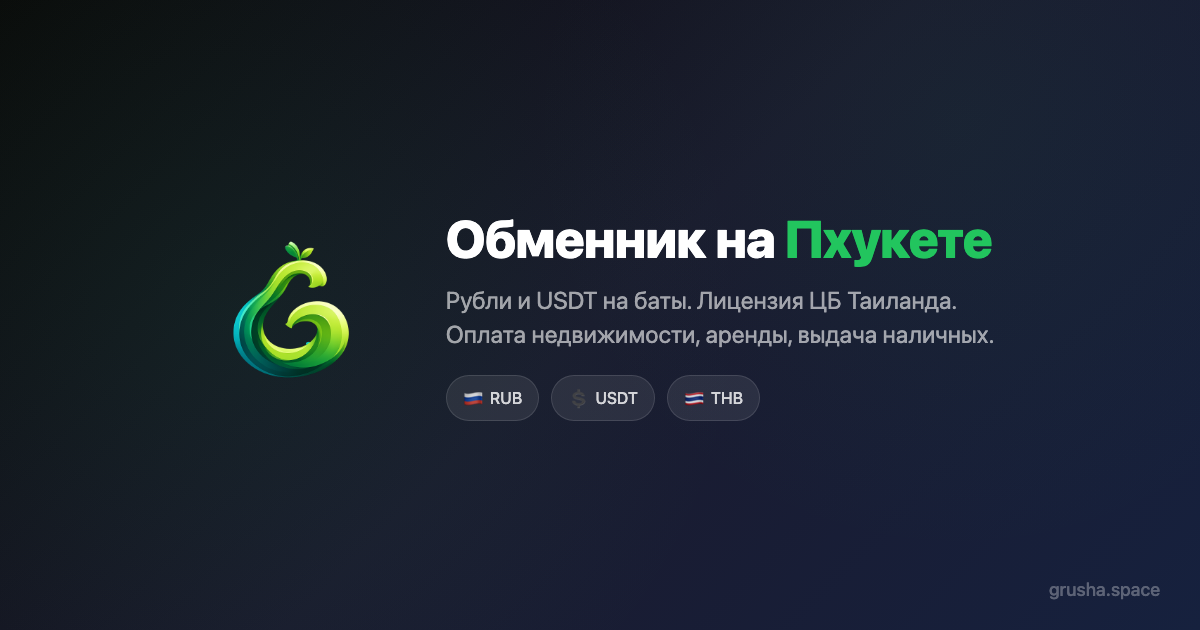
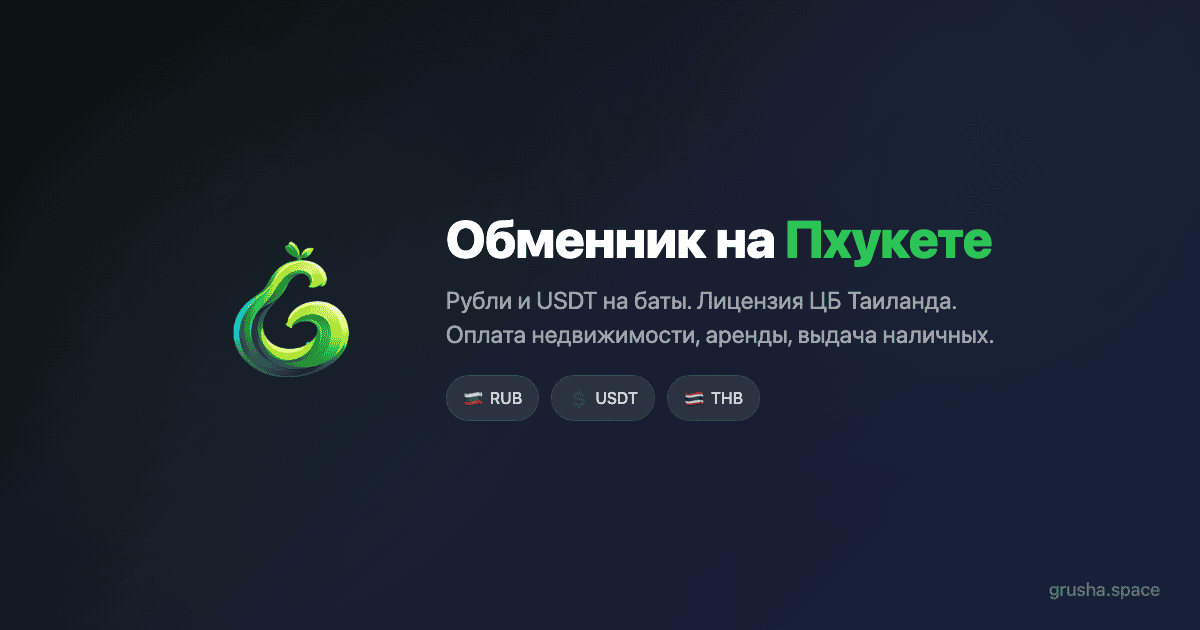
perf+seo: image compression, srcset, Lucide ESM, USDT landing page
Images:
- Compressed 5 WebP images (680KB → 517KB, q65)
- og-image.png 417KB → 58KB (pngquant)
- Generated 400w srcset variants for mobile (25-65KB each)
- Added srcset + sizes to all 5 content images

Performance:
- Replaced Lucide UMD bundle (180KB) with ESM tree-shaken import (29 icons only)

SEO:
- Created /usdt-to-thb.html — dedicated landing for "обмен USDT на баты пхукет"
- Updated sitemap.xml — 2 URLs (was 1), removed deprecated changefreq/priority

Changed region(s): [[0.185, 0.3921, 0.3083, 0.6032]]

diff --git a/usdt-to-thb.html b/usdt-to-thb.html
@@ -1,0 +1,234 @@
+<!DOCTYPE html>
+<html lang="ru">
+<head>
+    <meta charset="UTF-8">
+    <meta name="viewport" content="width=device-width, initial-scale=1.0">
+    <meta name="description" content="Обмен USDT на баты на Пхукете через Grusha. Криптообменник с лицензией ЦБ Таиланда MC225660186. Получите баты за 15 минут: банкомат по QR, курьер, офис.">
+    <meta name="robots" content="index, follow">
+    <link rel="canonical" href="https://grusha.space/usdt-to-thb.html">
+
+    <meta property="og:type" content="website">
+    <meta property="og:url" content="https://grusha.space/usdt-to-thb.html">
+    <meta property="og:title" content="Обмен USDT на баты на Пхукете — Grusha">
+    <meta property="og:description" content="Криптообменник на Пхукете с лицензией. USDT → THB за 15 минут. Банкомат, курьер, офис.">
+    <meta property="og:image" content="https://grusha.space/assets/images/og-image.png">
+    <meta property="og:locale" content="ru_RU">
+
+    <script type="application/ld+json">
+    {
+      "@context": "https://schema.org",
+      "@type": "Service",
+      "name": "Обмен USDT на баты на Пхукете",
+      "description": "Обмен криптовалюты USDT (Tether) на тайские баты на Пхукете. Получение наличных через банкомат по QR-коду, курьером или в офисе. Лицензия ЦБ Таиланда MC225660186.",
+      "provider": {
+        "@type": "LocalBusiness",
+        "@id": "https://grusha.space/#business"
+      },
+      "areaServed": {
+        "@type": "AdministrativeArea",
+        "name": "Phuket, Thailand"
+      },
+      "serviceType": "Currency Exchange",
+      "offers": {
+        "@type": "Offer",
+        "priceCurrency": "USDT",
+        "description": "Минимум 500 USDT, индивидуальный курс для сумм свыше 10 000 USDT"
+      }
+    }
+    </script>
+
+    <title>Обмен USDT на баты на Пхукете — Grusha | Криптообменник с лицензией</title>
+    <link rel="icon" href="assets/images/grushalogo.webp" type="image/webp">
+    <link rel="stylesheet" href="assets/css/styles.min.css">
+    <link rel="preconnect" href="https://fonts.googleapis.com">
+    <link rel="preconnect" href="https://fonts.gstatic.com" crossorigin>
+    <link href="https://fonts.googleapis.com/css2?family=Plus+Jakarta+Sans:wght@400;700;800&display=swap" rel="stylesheet" media="print" onload="this.media='all'">
+    <style>
+        html, body { overflow-x: hidden; }
+        body { font-family: 'Plus Jakarta Sans', sans-serif; background-color: #F8FAF9; }
+        .glass { background: rgba(255, 255, 255, 0.8); backdrop-filter: blur(10px); }
+    </style>
+</head>
+<body>
+
+    <!-- Header -->
+    <header class="py-4 px-6 glass border-b border-gray-200 sticky top-0 z-50">
+        <div class="max-w-5xl mx-auto flex justify-between items-center">
+            <a href="/" class="flex items-center space-x-3">
+                <img src="assets/images/grushalogo.webp" alt="Grusha" width="40" height="40" class="h-10 w-auto">
+                <span class="text-xl font-extrabold tracking-tight">Grusha</span>
+            </a>
+            <a href="/" class="text-sm font-bold text-gray-500 hover:text-black transition">← На главную</a>
+        </div>
+    </header>
+
+    <main class="max-w-3xl mx-auto px-6 py-16 md:py-24">
+
+        <!-- Breadcrumb -->
+        <nav class="text-sm text-gray-400 mb-8">
+            <a href="/" class="hover:text-gray-700 transition">Главная</a>
+            <span class="mx-2">→</span>
+            <span class="text-gray-700 font-medium">Обмен USDT на баты</span>
+        </nav>
+
+        <h1 class="text-3xl md:text-5xl font-extrabold text-gray-900 leading-tight mb-6 tracking-tight">
+            Обмен USDT на&nbsp;баты на&nbsp;Пхукете
+        </h1>
+
+        <p class="text-lg md:text-xl text-gray-600 leading-relaxed mb-10">
+            Обменяйте USDT (Tether) на&nbsp;тайские баты через лицензированный криптообменник на&nbsp;Пхукете. Получите наличные за&nbsp;15&nbsp;минут — через банкомат по&nbsp;QR-коду, курьером или в&nbsp;нашем офисе.
+        </p>
+
+        <!-- CTA -->
+        <div class="flex flex-col sm:flex-row gap-4 mb-16">
+            <a href="https://t.me/exgreen_pro_bot" target="_blank" rel="noopener" class="bg-[#3B82F6] text-white px-8 py-4 rounded-full font-bold text-lg text-center shadow-xl hover:brightness-110 transition">
+                Обменять в Telegram
+            </a>
+            <a href="https://wa.me/66818429939" target="_blank" rel="noopener" class="border-2 border-[#4ADE80] text-[#16A34A] px-8 py-4 rounded-full font-bold text-lg text-center hover:bg-[#4ADE80]/5 transition">
+                в WhatsApp
+            </a>
+        </div>
+
+        <!-- How it works -->
+        <section class="mb-16">
+            <h2 class="text-2xl md:text-3xl font-extrabold text-gray-900 mb-8">Как обменять USDT на баты через Grusha</h2>
+
+            <div class="space-y-6">
+                <div class="bg-white rounded-2xl p-6 border border-gray-100">
+                    <div class="flex items-start gap-4">
+                        <span class="w-10 h-10 bg-[#D9F99D] rounded-full flex items-center justify-center font-black text-lg shrink-0">1</span>
+                        <div>
+                            <h3 class="font-bold text-gray-900 text-lg mb-2">Напишите в Telegram или WhatsApp</h3>
+                            <p class="text-gray-600">Укажите сумму USDT и как хотите получить баты. Менеджер зафиксирует курс обмена USDT к бату на момент сделки.</p>
+                        </div>
+                    </div>
+                </div>
+                <div class="bg-white rounded-2xl p-6 border border-gray-100">
+                    <div class="flex items-start gap-4">
+                        <span class="w-10 h-10 bg-[#D9F99D] rounded-full flex items-center justify-center font-black text-lg shrink-0">2</span>
+                        <div>
+                            <h3 class="font-bold text-gray-900 text-lg mb-2">Отправьте USDT на наш кошелёк</h3>
+                            <p class="text-gray-600">Принимаем USDT по сети TRC-20 (комиссия сети ~1 USDT). После подтверждения транзакции в блокчейне приступаем к выдаче.</p>
+                        </div>
+                    </div>
+                </div>
+                <div class="bg-white rounded-2xl p-6 border border-gray-100">
+                    <div class="flex items-start gap-4">
+                        <span class="w-10 h-10 bg-[#D9F99D] rounded-full flex items-center justify-center font-black text-lg shrink-0">3</span>
+                        <div>
+                            <h3 class="font-bold text-gray-900 text-lg mb-2">Получите баты</h3>
+                            <p class="text-gray-600">Выберите удобный способ: наличные через банкомат по QR-коду (без карты), доставка курьером на Пхукете, получение в офисе (Choeng Thale) или перевод на тайский банковский счёт.</p>
+                        </div>
+                    </div>
+                </div>
+            </div>
+        </section>
+
+        <!-- Delivery methods -->
+        <section class="mb-16">
+            <h2 class="text-2xl md:text-3xl font-extrabold text-gray-900 mb-8">Способы получения батов</h2>
+            <div class="grid grid-cols-1 md:grid-cols-2 gap-4">
+                <div class="bg-white rounded-2xl p-6 border border-gray-100">
+                    <h3 class="font-bold text-gray-900 mb-2">Банкомат по QR-коду</h3>
+                    <p class="text-gray-600 text-sm">Отправим QR-код в мессенджер. Покажите на экране банкомата — заберите баты без карты, за 5 минут.</p>
+                </div>
+                <div class="bg-white rounded-2xl p-6 border border-gray-100">
+                    <h3 class="font-bold text-gray-900 mb-2">Курьер по Пхукету</h3>
+                    <p class="text-gray-600 text-sm">Доставим наличные баты прямо к вашей вилле или отелю. 15-40 минут.</p>
+                </div>
+                <div class="bg-white rounded-2xl p-6 border border-gray-100">
+                    <h3 class="font-bold text-gray-900 mb-2">Офис Grusha</h3>
+                    <p class="text-gray-600 text-sm">48/207 Choeng Thale, Thalang, Phuket 83110. Ежедневно с 09:00 до 21:00.</p>
+                </div>
+                <div class="bg-white rounded-2xl p-6 border border-gray-100">
+                    <h3 class="font-bold text-gray-900 mb-2">На тайский счёт</h3>
+                    <p class="text-gray-600 text-sm">Перевод на счёт в Bangkok Bank, Kasikorn, SCB и любой другой банк Таиланда.</p>
+                </div>
+            </div>
+        </section>
+
+        <!-- Why Grusha -->
+        <section class="mb-16">
+            <h2 class="text-2xl md:text-3xl font-extrabold text-gray-900 mb-8">Почему менять USDT на баты через Grusha</h2>
+            <div class="space-y-4">
+                <div class="bg-white rounded-2xl p-6 border border-gray-100">
+                    <h3 class="font-bold text-gray-900 mb-2">Лицензия ЦБ Таиланда</h3>
+                    <p class="text-gray-600 text-sm">Работаем через тайскую компанию (Co., Ltd) с лицензией MC225660186. <a href="http://app.bot.or.th/BOTLicenseCheck/License/ViewDetail?id=2044" target="_blank" rel="noopener" class="underline font-bold hover:text-[#16A34A]">Проверить на сайте Bank of Thailand</a>.</p>
+                </div>
+                <div class="bg-white rounded-2xl p-6 border border-gray-100">
+                    <h3 class="font-bold text-gray-900 mb-2">Индивидуальный курс USDT→THB</h3>
+                    <p class="text-gray-600 text-sm">Курс привязан к рыночному Binance. Для сумм свыше 5 000 USDT — улучшенный курс, свыше 10 000 — максимальная скидка.</p>
+                </div>
+                <div class="bg-white rounded-2xl p-6 border border-gray-100">
+                    <h3 class="font-bold text-gray-900 mb-2">Быстро и без регистрации</h3>
+                    <p class="text-gray-600 text-sm">Не нужна верификация, KYC или регистрация на бирже. Вы пишете в Telegram — и через 15 минут получаете баты.</p>
+                </div>
+            </div>
+        </section>
+
+        <!-- FAQ -->
+        <section class="mb-16">
+            <h2 class="text-2xl md:text-3xl font-extrabold text-gray-900 mb-8">Вопросы про обмен USDT на Пхукете</h2>
+            <div class="space-y-4">
+                <details class="bg-white rounded-2xl p-6 border border-gray-100 group" open>
+                    <summary class="flex justify-between items-center cursor-pointer list-none font-bold text-gray-900">
+                        Какой минимальный объём обмена USDT?
+                    </summary>
+                    <p class="mt-3 text-gray-600 text-sm leading-relaxed">Минимальная сумма — 500 USDT. Максимальная не ограничена. Для крупных сумм (от 10 000 USDT) согласовываем индивидуальный курс.</p>
+                </details>
+                <details class="bg-white rounded-2xl p-6 border border-gray-100 group">
+                    <summary class="flex justify-between items-center cursor-pointer list-none font-bold text-gray-900">
+                        По какой сети принимаете USDT?
+                    </summary>
+                    <p class="mt-3 text-gray-600 text-sm leading-relaxed">Основная сеть — TRC-20 (Tron). Комиссия сети ~1 USDT. Также принимаем по ERC-20 (Ethereum), но комиссия сети будет выше.</p>
+                </details>
+                <details class="bg-white rounded-2xl p-6 border border-gray-100 group">
+                    <summary class="flex justify-between items-center cursor-pointer list-none font-bold text-gray-900">
+                        Как формируется курс USDT к бату?
+                    </summary>
+                    <p class="mt-3 text-gray-600 text-sm leading-relaxed">Курс привязан к рыночному курсу USDT/THB на Binance. Наша комиссия зависит от суммы: до 5 000 USDT — 3%, до 10 000 — 2.5%, свыше 10 000 — 2%. Курс фиксируется на момент подтверждения сделки.</p>
+                </details>
+                <details class="bg-white rounded-2xl p-6 border border-gray-100 group">
+                    <summary class="flex justify-between items-center cursor-pointer list-none font-bold text-gray-900">
+                        Безопасно ли отправлять USDT обменнику?
+                    </summary>
+                    <p class="mt-3 text-gray-600 text-sm leading-relaxed">Да. Grusha — лицензированная компания с офисом на Пхукете. Лицензию MC225660186 можно проверить на сайте Bank of Thailand. Мы работаем с 2024 года и сопровождаем каждую сделку до зачисления.</p>
+                </details>
+                <details class="bg-white rounded-2xl p-6 border border-gray-100 group">
+                    <summary class="flex justify-between items-center cursor-pointer list-none font-bold text-gray-900">
+                        Можно ли обменять USDT на баты удалённо?
+                    </summary>
+                    <p class="mt-3 text-gray-600 text-sm leading-relaxed">Да. Вы отправляете USDT из любой точки мира, а баты получаете на Пхукете — через банкомат, курьера или на тайский счёт. Приезжать в офис не обязательно.</p>
+                </details>
+            </div>
+        </section>
+
+        <!-- Bottom CTA -->
+        <section class="bg-[#D9F99D] rounded-3xl p-8 md:p-12 text-center">
+            <h2 class="text-2xl md:text-3xl font-extrabold text-gray-900 mb-4">Готовы обменять USDT на баты?</h2>
+            <p class="text-gray-700 mb-8">Напишите в мессенджер — зафиксируем курс и проведём сделку за 15 минут.</p>
+            <div class="flex flex-col sm:flex-row justify-center gap-4">
+                <a href="https://t.me/exgreen_pro_bot" target="_blank" rel="noopener" class="bg-[#111513] text-white px-10 py-4 rounded-full font-bold text-lg shadow-xl hover:scale-105 transition">
+                    Telegram
+                </a>
+                <a href="https://wa.me/66818429939" target="_blank" rel="noopener" class="bg-white text-[#111513] px-10 py-4 rounded-full font-bold text-lg shadow-xl hover:scale-105 transition">
+                    WhatsApp
+                </a>
+            </div>
+        </section>
+    </main>
+
+    <footer class="border-t border-gray-200 py-12 px-6 text-center">
+        <a href="/" class="inline-flex items-center space-x-3 mb-4">
+            <img src="assets/images/grushalogo.webp" alt="Grusha" width="32" height="32" class="h-8 w-auto">
+            <span class="text-lg font-extrabold">Grusha</span>
+        </a>
+        <p class="text-gray-400 font-bold text-sm">© 2026 Grusha. Все права защищены. +66 81 842 9939</p>
+        <div class="flex justify-center gap-6 mt-2">
+            <a href="/privacy.html" class="text-gray-500 text-sm hover:text-gray-300 transition">Политика конфиденциальности</a>
+            <a href="/terms.html" class="text-gray-500 text-sm hover:text-gray-300 transition">Условия использования</a>
+        </div>
+    </footer>
+
+</body>
+</html>

diff --git a/index.html b/index.html
@@ -254,7 +254,11 @@
     <link rel="preconnect" href="https://fonts.gstatic.com" crossorigin>
     <link href="https://fonts.googleapis.com/css2?family=Plus+Jakarta+Sans:wght@400;500;600;700;800&display=swap" rel="stylesheet" media="print" onload="this.media='all'">
     <noscript><link href="https://fonts.googleapis.com/css2?family=Plus+Jakarta+Sans:wght@400;500;600;700;800&display=swap" rel="stylesheet"></noscript>
-    <script src="https://unpkg.com/lucide@0.577.0/dist/umd/lucide.min.js" defer></script>
+    <script type="module">
+    import{createIcons,BadgeCheck,Banknote,Building,Building2,Check,ChevronDown,ChevronLeft,ChevronRight,Coins,CreditCard,ExternalLink,Home,Key,Map,MapPin,MessageCircle,Minus,Percent,Plus,QrCode,Rocket,Send,ShieldCheck,Smartphone,Target,Truck,Wallet,X,Zap}from'https://esm.sh/lucide@0.577.0?exports=createIcons,BadgeCheck,Banknote,Building,Building2,Check,ChevronDown,ChevronLeft,ChevronRight,Coins,CreditCard,ExternalLink,Home,Key,Map,MapPin,MessageCircle,Minus,Percent,Plus,QrCode,Rocket,Send,ShieldCheck,Smartphone,Target,Truck,Wallet,X,Zap';
+    window.lucide={createIcons,icons:{BadgeCheck,Banknote,Building,Building2,Check,ChevronDown,ChevronLeft,ChevronRight,Coins,CreditCard,ExternalLink,Home,Key,Map,MapPin,MessageCircle,Minus,Percent,Plus,QrCode,Rocket,Send,ShieldCheck,Smartphone,Target,Truck,Wallet,X,Zap}};
+    createIcons();
+    </script>
     <style>
         @font-face {
             font-family: 'Plus Jakarta Sans';
@@ -548,7 +552,7 @@
                         <div class="feature-card"><i data-lucide="check" class="w-5 h-5 text-green-600 mt-1"></i><div><h4 class="font-bold text-gray-900 mb-1 text-lg">Официальные документы</h4><p class="text-gray-500 text-sm font-medium">Банковские подтверждения, FET-форма для фрихолда, чеки для застройщика.</p></div></div>
                         <div class="feature-card"><i data-lucide="check" class="w-5 h-5 text-green-600 mt-1"></i><div><h4 class="font-bold text-gray-900 mb-1 text-lg">Сопровождение</h4><p class="text-gray-500 text-sm font-medium">Контролируем процесс до&nbsp;момента зачисления средств на&nbsp;баланс объекта.</p></div></div>
                     </div>
-                    <div class="task-image-wrapper shadow-2xl"><img src="assets/images/appartments.webp" alt="Покупка виллы в Таиланде через Grusha" width="800" height="480" loading="lazy" decoding="async"></div>
+                    <div class="task-image-wrapper shadow-2xl"><img src="assets/images/appartments.webp" srcset="assets/images/appartments-400w.webp 400w, assets/images/appartments.webp 800w" sizes="(max-width: 768px) 100vw, 50vw" alt="Покупка виллы в Таиланде через Grusha" width="800" height="480" loading="lazy" decoding="async"></div>
                 </div>
             </div>
             <!-- Task 2 -->
@@ -561,7 +565,7 @@
                         <div class="feature-card"><i data-lucide="check" class="w-5 h-5 text-green-600 mt-1"></i><div><h4 class="font-bold text-gray-900 mb-1 text-lg">Пополнение за&nbsp;пару минут</h4><p class="text-gray-500 text-sm font-medium">Деньги поступают на&nbsp;счёт тайского банка мгновенно.</p></div></div>
                         <div class="feature-card"><i data-lucide="check" class="w-5 h-5 text-green-600 mt-1"></i><div><h4 class="font-bold text-gray-900 mb-1 text-lg">Оплата сервисов</h4><p class="text-gray-500 text-sm font-medium">Трансферы, аренда авто, экскурсии и&nbsp;другие туристические услуги.</p></div></div>
                     </div>
-                    <div class="task-image-wrapper shadow-2xl"><img src="assets/images/rent.webp" alt="Аренда недвижимости в Таиланде" width="800" height="480" loading="lazy" decoding="async"></div>
+                    <div class="task-image-wrapper shadow-2xl"><img src="assets/images/rent.webp" srcset="assets/images/rent-400w.webp 400w, assets/images/rent.webp 800w" sizes="(max-width: 768px) 100vw, 50vw" alt="Аренда недвижимости в Таиланде" width="800" height="480" loading="lazy" decoding="async"></div>
                 </div>
             </div>
             <!-- Task 3 -->
@@ -574,7 +578,7 @@
                         <div class="feature-card"><i data-lucide="check" class="w-5 h-5 text-green-600 mt-1"></i><div><h4 class="font-bold text-gray-900 mb-1 text-lg">Доставка курьером</h4><p class="text-gray-500 text-sm font-medium">Доставляем баты в любую точку Пхукета.</p></div></div>
                         <div class="feature-card"><i data-lucide="check" class="w-5 h-5 text-green-600 mt-1"></i><div><h4 class="font-bold text-gray-900 mb-1 text-lg">Выдача в офисе</h4><p class="text-gray-500 text-sm font-medium">Ждем вас в нашем офисе на Пхукете (район Choeng Thale).</p></div></div>
                     </div>
-                    <div class="task-image-wrapper shadow-2xl"><img src="assets/images/cash.webp" alt="Получение наличных бат на Пхукете" width="800" height="480" loading="lazy" decoding="async"></div>
+                    <div class="task-image-wrapper shadow-2xl"><img src="assets/images/cash.webp" srcset="assets/images/cash-400w.webp 400w, assets/images/cash.webp 800w" sizes="(max-width: 768px) 100vw, 50vw" alt="Получение наличных бат на Пхукете" width="800" height="480" loading="lazy" decoding="async"></div>
                 </div>
             </div>
         </div>
@@ -767,7 +771,7 @@
     <section id="security" class="py-20 md:py-24 px-6 bg-white border-t border-ds-border min-h-[80dvh] flex flex-col justify-center">
         <div class="max-w-7xl mx-auto bg-figma-lime rounded-[3rem] overflow-hidden flex flex-col lg:flex-row items-stretch">
             <div class="lg:w-[45%] relative min-h-[400px] lg:min-h-auto">
-                <img src="assets/images/why.webp" alt="Безопасность и легальность обмена валюты в Таиланде через Grusha" class="absolute inset-0 w-full h-full object-cover rounded-tr-[120px]" width="800" height="400" loading="lazy" decoding="async">
+                <img src="assets/images/why.webp" srcset="assets/images/why-400w.webp 400w, assets/images/why.webp 800w" sizes="(max-width: 768px) 100vw, 45vw" alt="Безопасность и легальность обмена валюты в Таиланде через Grusha" class="absolute inset-0 w-full h-full object-cover rounded-tr-[120px]" width="800" height="400" loading="lazy" decoding="async">
             </div>
             <div class="lg:w-[55%] p-8 md:p-16 flex flex-col justify-center">
                 <h2 class="text-4xl md:text-5xl font-extrabold text-gray-900 mb-6 tracking-tight">Почему выбирают Grusha</h2>
@@ -896,7 +900,7 @@
                     <div class="relative z-10 w-[320px] transform hover:rotate-1 transition-transform duration-700">
                         <!-- Phone Image Only (No frame) -->
                         <div class="relative overflow-visible">
-                            <img src="assets/images/grusha_phone.webp" alt="Интерфейс Grusha Bot для партнеров" class="w-full h-auto block rounded-[3rem] shadow-[0_40px_80px_-15px_rgba(0,0,0,0.25)]" width="400" height="700" loading="lazy" decoding="async">
+                            <img src="assets/images/grusha_phone.webp" srcset="assets/images/grusha_phone-400w.webp 400w, assets/images/grusha_phone.webp 800w" sizes="320px" alt="Интерфейс Grusha Bot для партнеров" class="w-full h-auto block rounded-[3rem] shadow-[0_40px_80px_-15px_rgba(0,0,0,0.25)]" width="400" height="700" loading="lazy" decoding="async">
                             
                             <!-- Left Label (Profit Share) -->
                             <div class="absolute -left-4 md:-left-16 bottom-1/4 bg-white text-black px-4 md:px-6 py-3 md:py-4 rounded-3xl font-black text-xs md:text-sm shadow-2xl animate-float z-20" style="animation-delay: 1.5s;">
